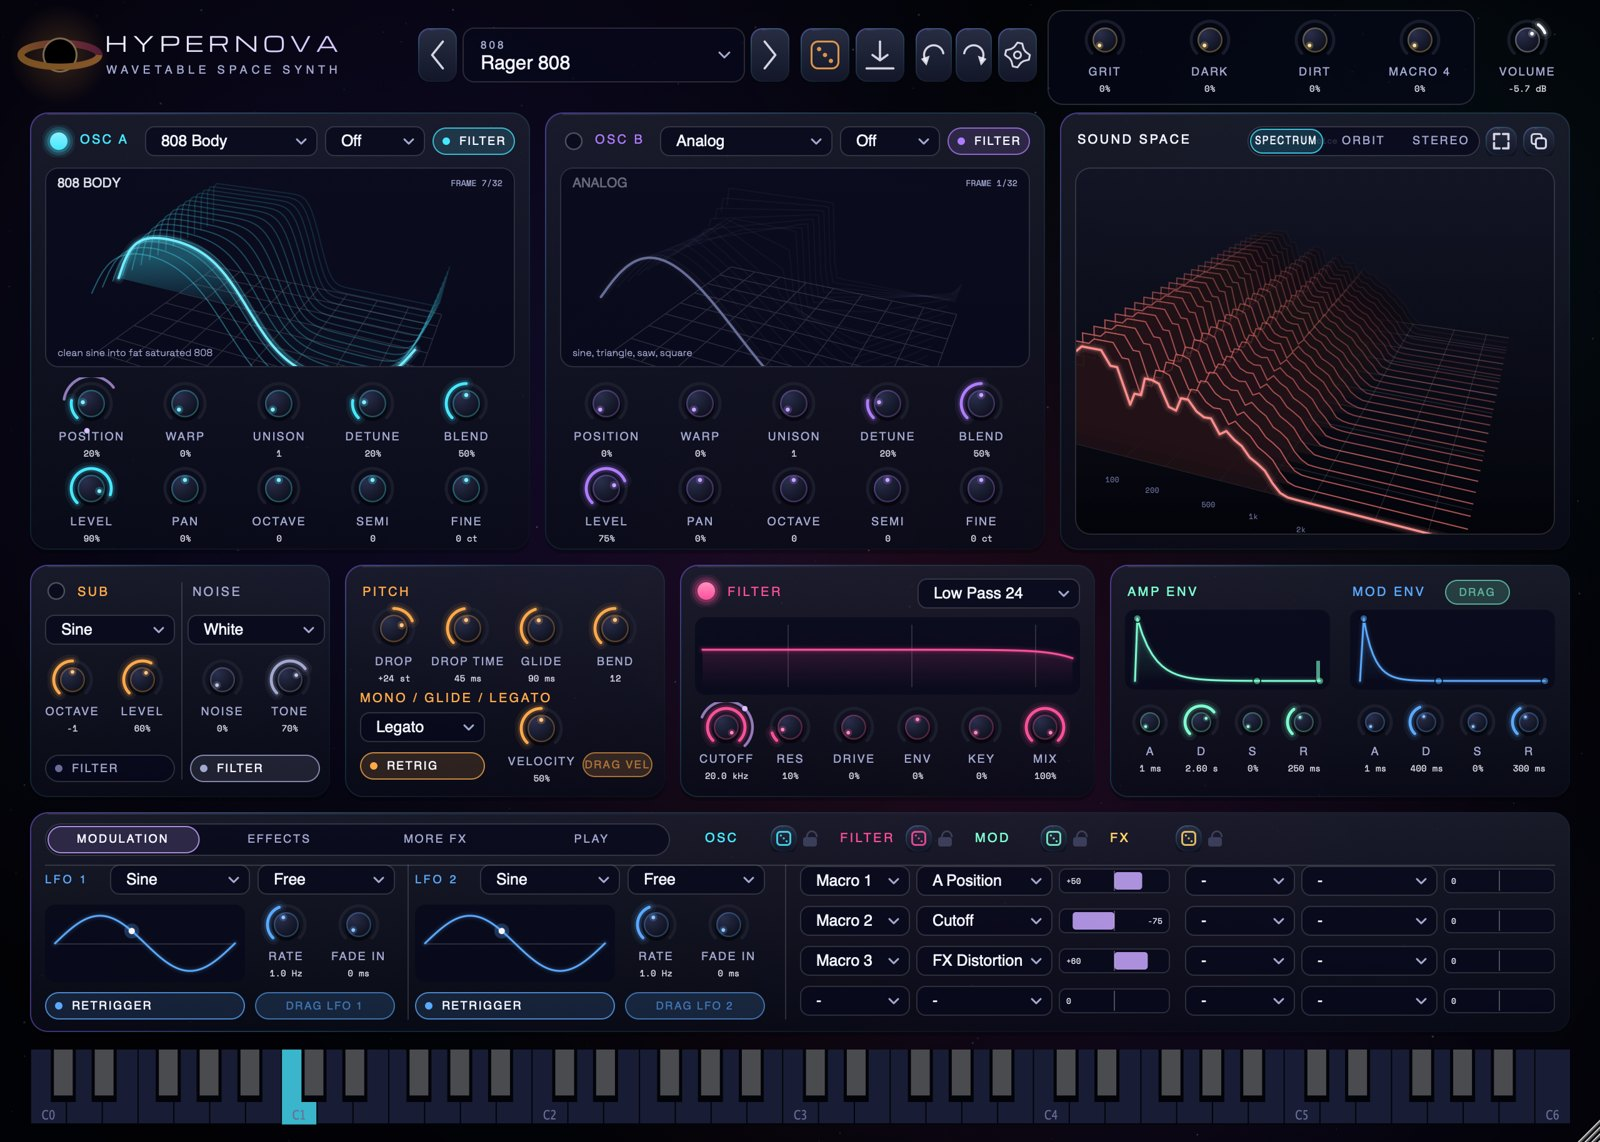
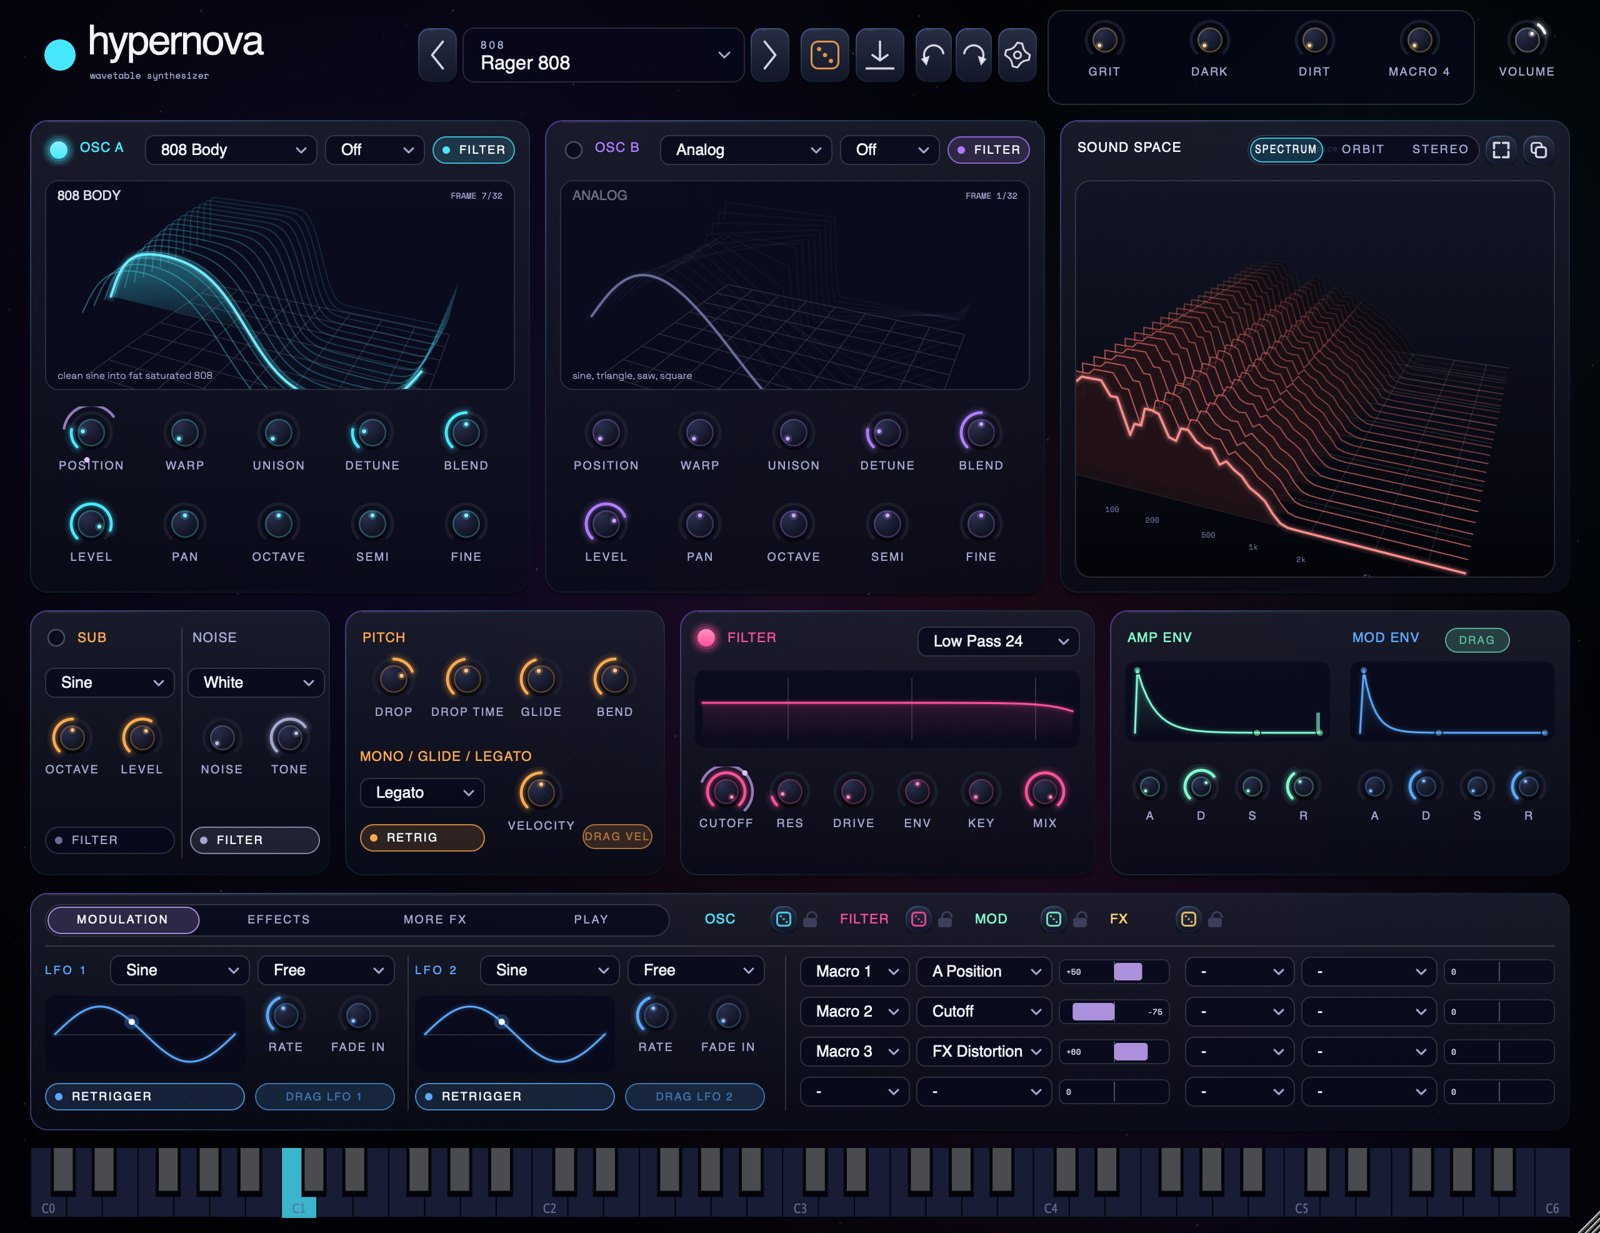
Paper house theme and wordmark; roomier layout
- New default theme, Paper: warm grey, white panels, black ink and one orange, matching the website.
  The logo is now an accent dot and a lowercase 'hypernova' wordmark in every theme; the backdrop no
  longer draws a black hole behind it (the logo flare still pulses the dot).
- Section labels use the monospace, like the site's spec sheet.
- Layout: taller rows (the canvas grows from 914 to 986 high), panel contents spread over the extra
  height, bigger wavetable and Sound Space views, and knob values appear on hover (Gear > Look >
  Always show knob values brings them back).
- Site screenshots updated to the new looks, Paper as the hero.

diff --git a/docs/index.html b/docs/index.html
@@ -10,7 +10,7 @@
   <meta property="og:type" content="website">
   <meta property="og:title" content="Hypernova">
   <meta property="og:description" content="a wavetable synthesizer for macOS. VST3, AU and standalone.">
-  <meta property="og:image" content="https://erinuckuzular-ai.github.io/Hypernova/assets/theme_daylight.jpg">
+  <meta property="og:image" content="https://erinuckuzular-ai.github.io/Hypernova/assets/theme_paper.jpg">
   <meta name="twitter:card" content="summary_large_image">
   <link rel="icon" href="favicon.svg" type="image/svg+xml">
   <link rel="preconnect" href="https://fonts.googleapis.com">
@@ -45,8 +45,8 @@
       </div>
 
       <figure class="hero-shot">
-        <img src="assets/theme_daylight.jpg" width="1600" height="1142" fetchpriority="high"
-             alt="The Hypernova editor in the Daylight theme: two wavetable oscillators in 3D, a spectrum view, filter, envelopes and the modulation deck.">
+        <img src="assets/theme_paper.jpg" width="1600" height="1233" fetchpriority="high"
+             alt="The Hypernova editor in the Paper theme: two wavetable oscillators in 3D, a spectrum view, filter, envelopes and the modulation deck.">
       </figure>
     </section>
 
@@ -104,7 +104,7 @@
             <li>362 FACTORY SOUNDS + 22 FOUNDERS PACK</li>
             <li>SHARE SOUNDS AS .HNPRESET FILES</li>
             <li>STEREO VIEW, POP-OUT VISUALISER</li>
-            <li>4 THEMES, CUSTOM ACCENT COLOUR</li>
+            <li>5 THEMES, CUSTOM ACCENT COLOUR</li>
             <li>UPDATES ITSELF, IF YOU LET IT</li>
             <li>SLEEPS WHEN SILENT: ~0 % CPU</li>
             <li>SIGNED AND NOTARIZED BY APPLE</li>
@@ -115,23 +115,23 @@
     </section>
 
     <section id="looks" class="section" aria-labelledby="looks-title">
-      <h2 id="looks-title">four looks.</h2>
-      <p class="lede">pick one in the gear menu. or pick your own accent colour and ignore all four.</p>
+      <h2 id="looks-title">five looks.</h2>
+      <p class="lede">paper is the default. the rest are in the gear menu, or pick your own accent colour and ignore all five.</p>
       <div class="shots">
         <figure class="shot">
-          <img src="assets/theme_cosmic.jpg" width="1600" height="1142" loading="lazy" alt="Hypernova in the Cosmic theme.">
+          <img src="assets/theme_cosmic.jpg" width="1600" height="1233" loading="lazy" alt="Hypernova in the Cosmic theme.">
           <figcaption>COSMIC</figcaption>
         </figure>
         <figure class="shot">
-          <img src="assets/theme_blackout.jpg" width="1600" height="1142" loading="lazy" alt="Hypernova in the Blackout theme.">
+          <img src="assets/theme_blackout.jpg" width="1600" height="1233" loading="lazy" alt="Hypernova in the Blackout theme.">
           <figcaption>BLACKOUT</figcaption>
         </figure>
         <figure class="shot">
-          <img src="assets/theme_daylight.jpg" width="1600" height="1142" loading="lazy" alt="Hypernova in the Daylight theme.">
+          <img src="assets/theme_daylight.jpg" width="1600" height="1233" loading="lazy" alt="Hypernova in the Daylight theme.">
           <figcaption>DAYLIGHT</figcaption>
         </figure>
         <figure class="shot">
-          <img src="assets/theme_vapor.jpg" width="1600" height="1142" loading="lazy" alt="Hypernova in the Vapor theme.">
+          <img src="assets/theme_vapor.jpg" width="1600" height="1233" loading="lazy" alt="Hypernova in the Vapor theme.">
           <figcaption>VAPOR</figcaption>
         </figure>
       </div>

diff --git a/Source/PluginEditor.cpp b/Source/PluginEditor.cpp
@@ -7,20 +7,29 @@ using namespace ab::ui;
 namespace
 {
     // Base-canvas layout
-    const juce::Rectangle<int> oscAPanel   { 24, 90, 400, 350 };
-    const juce::Rectangle<int> oscBPanel   { 436, 90, 400, 350 };
-    const juce::Rectangle<int> spacePanel  { 848, 90, 408, 350 };
-    const juce::Rectangle<int> subPanel    { 24, 452, 240, 186 };
-    const juce::Rectangle<int> voicePanel  { 276, 452, 256, 186 };
-    const juce::Rectangle<int> filterPanel { 544, 452, 332, 186 };
-    const juce::Rectangle<int> envPanel    { 888, 452, 368, 186 };
-    const juce::Rectangle<int> deckPanel   { 24, 650, 1232, 176 };
-    const juce::Rectangle<int> deckContent { 24, 688, 1232, 136 };
-    const juce::Rectangle<int> keysArea    { 24, 840, 1232, 60 };
+    // Rows breathe: every panel is taller than the content it was designed around, and at() spreads a
+    // panel's contents over the extra height instead of leaving it all at the bottom.
+    constexpr int topRowH = 378, midRowH = 212, topRowDesign = 350, midRowDesign = 186;
+    const juce::Rectangle<int> oscAPanel   { 24, 96, 400, topRowH };
+    const juce::Rectangle<int> oscBPanel   { 436, 96, 400, topRowH };
+    const juce::Rectangle<int> spacePanel  { 848, 96, 408, topRowH };
+    const juce::Rectangle<int> subPanel    { 24, 488, 240, midRowH };
+    const juce::Rectangle<int> voicePanel  { 276, 488, 256, midRowH };
+    const juce::Rectangle<int> filterPanel { 544, 488, 332, midRowH };
+    const juce::Rectangle<int> envPanel    { 888, 488, 368, midRowH };
+    const juce::Rectangle<int> deckPanel   { 24, 714, 1232, 190 };
+    const juce::Rectangle<int> deckContent { 24, 760, 1232, 140 };
+    const juce::Rectangle<int> keysArea    { 24, 918, 1232, 56 };
 
-    const juce::Rectangle<int> messageArea { 334, 68, 496, 16 };
+    const juce::Rectangle<int> messageArea { 334, 72, 496, 16 };
 
-    juce::Rectangle<int> at (const juce::Rectangle<int>& panel, int x, int y, int w, int h) { return { panel.getX() + x, panel.getY() + y, w, h }; }
+    juce::Rectangle<int> at (const juce::Rectangle<int>& panel, int x, int y, int w, int h)
+    {
+        const float design = panel.getHeight() == topRowH ? (float) topRowDesign : panel.getHeight() == midRowH ? (float) midRowDesign
+                                                                                                           : (float) panel.getHeight();
+        const float k = (float) panel.getHeight() / design;
+        return { panel.getX() + x, panel.getY() + juce::roundToInt ((float) y * k), w, h };
+    }
 }
 
 //==============================================================================
@@ -314,7 +323,7 @@ void HypernovaAudioProcessorEditor::layoutCanvas()
         combo (p + "Table", WavetableBank::names(), at (P, 92, 11, 138, 24));
         combo (p + "Warp", warpNames(), at (P, 236, 11, 80, 24));
         toggle (std::make_unique<PillToggle> ("FILTER", c), p + "Filter", at (P, 322, 12, 66, 22), "Send this oscillator through the filter");
-        (o == 0 ? viewA : viewB).setBounds (at (P, 12, 44, 376, 160));
+        (o == 0 ? viewA : viewB).setBounds (at (P, 12, 44, 376, 168));
 
         const char* ids1[] = { "Pos", "WarpAmt", "Uni", "Detune", "Blend" };
         const char* names1[] = { "POSITION", "WARP", "UNISON", "DETUNE", "BLEND" };
@@ -329,7 +338,7 @@ void HypernovaAudioProcessorEditor::layoutCanvas()
 
     // Sound space
     spaceMode.setBounds (at (spacePanel, 150, 11, 186, 24));
-    space.setBounds (at (spacePanel, 12, 44, 384, 294));
+    space.setBounds (at (spacePanel, 12, 44, 384, 318));
     expandButton.setTooltip ("Fill the window with the Sound Space");
     popOutButton.setTooltip ("Open the Sound Space in its own resizable window");
     expandButton.onClick = [this] { setSpaceExpanded (! spaceExpanded); };
@@ -415,7 +424,7 @@ void HypernovaAudioProcessorEditor::paintCanvas (juce::Graphics& g)
     if (! cosmosOnGpu())
     {
         if (! fallbackBackdrop.isValid())
-            fallbackBackdrop = renderCosmosFallback (baseWidth, baseHeight, 2.0f, logoHole, logoHoleRadius);
+            fallbackBackdrop = renderCosmosFallback (baseWidth, baseHeight, 2.0f, logoHole, 0.0f);
         g.drawImage (fallbackBackdrop, juce::Rectangle<float> (0, 0, (float) baseWidth, (float) baseHeight));
     }
 
@@ -432,14 +441,16 @@ void HypernovaAudioProcessorEditor::paintCanvas (juce::Graphics& g)
 
 void HypernovaAudioProcessorEditor::paintStatic (juce::Graphics& g)
 {
-    // Wordmark next to the black hole (the hole itself is drawn by the backdrop).
+    // Wordmark: an accent dot and "hypernova" in lowercase, the same as the website.
     {
-        g.setGradientFill (juce::ColourGradient (Colours::text, 84, 20, juce::Colour (0xffc7b4ff), 330, 48, false));
-        g.setFont (heavy (24.0f).withExtraKerningFactor (0.16f));
-        g.drawText ("HYPERNOVA", juce::Rectangle<float> (84, 19, 250, 30), juce::Justification::centredLeft, false);
+        g.setColour (Colours::accent);
+        g.fillEllipse (juce::Rectangle<float> (logoHoleRadius * 2.0f, logoHoleRadius * 2.0f).withCentre (logoHole));
+        g.setColour (Colours::text);
+        g.setFont (heavy (34.0f).withExtraKerningFactor (-0.04f));
+        g.drawText ("hypernova", juce::Rectangle<float> (70, 14, 260, 40), juce::Justification::centredLeft, false);
         g.setColour (Colours::textDim);
-        g.setFont (font (9.5f, true).withExtraKerningFactor (0.34f));
-        g.drawText ("WAVETABLE SPACE SYNTH", juce::Rectangle<float> (85, 48, 250, 16), juce::Justification::centredLeft, false);
+        g.setFont (mono (11.0f));
+        g.drawText ("wavetable synthesizer", juce::Rectangle<float> (72, 52, 250, 16), juce::Justification::centredLeft, false);
     }
 
     auto titled = [&] (const juce::Rectangle<int>& r, const juce::String& title, juce::Colour c, int titleX = 14)
@@ -456,7 +467,7 @@ void HypernovaAudioProcessorEditor::paintStatic (juce::Graphics& g)
     g.setColour (Colours::line);
     g.drawVerticalLine (subPanel.getX() + 121, (float) subPanel.getY() + 14, (float) subPanel.getBottom() - 14);
     titled (voicePanel, "PITCH", Palette::sub);
-    sectionLabel (g, "MONO / GLIDE / LEGATO", juce::Rectangle<float> ((float) voicePanel.getX() + 12, (float) voicePanel.getY() + 98, 240, 18), Palette::sub);
+    sectionLabel (g, "MONO / GLIDE / LEGATO", juce::Rectangle<float> ((float) voicePanel.getX() + 12, (float) voicePanel.getY() + 108, 240, 18), Palette::sub);
     titled (filterPanel, "FILTER", Palette::filter, 38);
     titled (envPanel, "AMP ENV", Palette::env);
     sectionLabel (g, "MOD ENV", juce::Rectangle<float> ((float) envPanel.getX() + 194, (float) envPanel.getY() + 10, 120, 24), Palette::lfo);
@@ -538,7 +549,7 @@ void HypernovaAudioProcessorEditor::timerCallback()
         cosmos.flare = logoFlare;
         cosmos.holeX = logoHole.x * k;
         cosmos.holeY = logoHole.y * k;
-        cosmos.holeR = logoHoleRadius * k;
+        cosmos.holeR = 0.0f; // the logo is the dot now; no black hole behind it
         const bool gpu = cosmosOnGpu();
         if (gpu != lastGpu) { lastGpu = gpu; canvas.repaint(); }
         // Backdrop frame rate: 30 fps while notes sound, 12 fps when idle, or per the Animation setting.
@@ -1187,6 +1198,7 @@ void HypernovaAudioProcessorEditor::addLookMenu (juce::PopupMenu& m)
     m.addSubMenu ("Knobs", knobsMenu);
     m.addSubMenu ("Panels", panels);
     m.addItem (580, "Show keyboard", true, ab::ui::LookSettings::flag ("keyboard", true));
+    m.addItem (581, "Always show knob values", true, t.alwaysShowValues);
 }
 
 bool HypernovaAudioProcessorEditor::handleLookMenu (int r)
@@ -1212,6 +1224,7 @@ bool HypernovaAudioProcessorEditor::handleLookMenu (int r)
     else if (r == 570) t.panelStyle = -1;
     else if (r >= 571 && r <= 573) t.panelStyle = r - 571;
     else if (r == 580) ab::ui::LookSettings::setFlag ("keyboard", ! ab::ui::LookSettings::flag ("keyboard", true));
+    else if (r == 581) t.alwaysShowValues = ! t.alwaysShowValues;
     else return false;
     ++t.version;
     ab::ui::LookSettings::save();
@@ -1259,7 +1272,7 @@ void HypernovaAudioProcessorEditor::setSpaceExpanded (bool expand)
         showMessage ("Sound Space expanded: click the arrows again to shrink it");
     }
     else
-        space.setBounds (spacePanel.getX() + 12, spacePanel.getY() + 44, 384, 294);
+        space.setBounds (at (spacePanel, 12, 44, 384, 318));
     canvas.repaint();
 }
 

diff --git a/Source/UI/Style.h b/Source/UI/Style.h
@@ -47,6 +47,11 @@ inline std::vector<Theme> builtInThemes()
         return t;
     };
     return {
+        // Paper: the house look. Warm grey, white panels, black ink and one orange, like the website.
+        make ("Paper", { 0xfff2f1ee, 0xffe9e8e4, 0xffffffff, 0xffffffff, 0xffeeede9, 0x1f000000, 0x40000000,
+                         0xff111111, 0xff4a4a4a, 0xff8b8b88, 0xffff5a1f, 0xff2f5bff, 0xffff5a1f, 0xffe8363d,
+                         0xffff5a1f, 0xff2f5bff, 0xffe0a100, 0xffe8363d, 0xff16a37b, 0xff2f5bff, 0xff7a5cff, 0xff111111 },
+              BackdropFlat, 0.0f, KnobRing, PanelFlat, true),
         // Cosmic: deep space, but with panels that read as surfaces and a backdrop that sits back.
         make ("Cosmic", { 0xff03040a, 0xff070914, 0xc40d1022, 0xff181d35, 0xc206081a, 0x24ffffff, 0x45ffffff,
                           0xfff4f5ff, 0xffa3a8d0, 0xff676d96, 0xff46e8ff, 0xff8a5cff, 0xffffa94a, 0xffff4f9a,
@@ -77,6 +82,7 @@ struct ThemeState
     juce::Colour accentOverride; // transparent = use the theme's own
     int backdrop = -1, knobStyle = -1, panelStyle = -1;
     float backdropStrength = -1.0f;
+    bool alwaysShowValues = false; // otherwise knob values appear on hover, which keeps panels calm
     int version = 0; // bumped on every change so views can drop cached images
 
     static ThemeState& get()
@@ -124,6 +130,7 @@ struct LookSettings
         t.backdropStrength = (float) p.getDoubleValue ("strength", -1.0);
         t.knobStyle = p.getIntValue ("knobs", -1);
         t.panelStyle = p.getIntValue ("panels", -1);
+        t.alwaysShowValues = p.getBoolValue ("values", false);
         ++t.version;
     }
 
@@ -137,6 +144,7 @@ struct LookSettings
         p.setValue ("strength", (double) t.backdropStrength);
         p.setValue ("knobs", t.knobStyle);
         p.setValue ("panels", t.panelStyle);
+        p.setValue ("values", t.alwaysShowValues);
         p.saveIfNeeded();
     }
 
@@ -217,7 +225,7 @@ private:
                 code = load ("SpaceMonoRegular_ttf");
                 break;
             default:
-                display = load ("MichromaRegular_ttf");
+                display = load ("SpaceGroteskvar_ttf");
                 body = load ("SpaceGroteskvar_ttf");
                 bodyBold = load ("SpaceGroteskvar_ttf");
                 code = load ("SpaceMonoRegular_ttf");
@@ -242,7 +250,7 @@ inline juce::Font heavy (float height)
     const auto& f = Fonts::get();
     if (f.display == nullptr)
         return juce::Font (juce::FontOptions().withName ("Avenir Next").withHeight (height).withStyle ("Heavy"));
-    return juce::Font (juce::FontOptions (f.display).withHeight (height));
+    return juce::Font (juce::FontOptions (f.display).withHeight (height)).boldened();
 }
 
 // Wide display face, for the logo and section headings.
@@ -316,7 +324,7 @@ inline void panel (juce::Graphics& g, juce::Rectangle<float> r, float radius = 1
 inline void sectionLabel (juce::Graphics& g, const juce::String& text, juce::Rectangle<float> area, juce::Colour c = Colours::textDim)
 {
     g.setColour (c);
-    g.setFont (font (10.5f, true).withExtraKerningFactor (0.16f));
+    g.setFont (mono (11.0f).boldened().withExtraKerningFactor (0.06f));
     g.drawFittedText (text, area.toNearestInt(), juce::Justification::centredLeft, 1, 0.75f);
 }
 

diff --git a/Source/UI/Cosmos.h b/Source/UI/Cosmos.h
@@ -248,6 +248,7 @@ inline juce::Image renderCosmosFallback (int w, int h, float scale, juce::Point<
     const float strength = ThemeState::get().strength();
     auto blackHole = [&]
     {
+        if (holeR <= 0.0f) return;
         g.setGradientFill (juce::ColourGradient (juce::Colour (0x66ffa14a), hole.x, hole.y, juce::Colour (0x00ffa14a), hole.x + holeR * 3.2f, hole.y, true));
         g.fillEllipse (juce::Rectangle<float> (holeR * 6.4f, holeR * 6.4f).withCentre (hole));
         juce::Path d;
@@ -305,6 +306,9 @@ inline juce::Image renderCosmosFallback (int w, int h, float scale, juce::Point<
     g.fillRect (r);
     // Black hole: glow, disk, horizon, photon ring.
     blackHole();
+    if (holeR <= 0.0f) { g.setGradientFill (juce::ColourGradient (juce::Colours::transparentBlack, r.getCentreX(), r.getCentreY(),
+                                                                  juce::Colours::black.withAlpha (0.55f), 0, 0, true));
+                         g.fillRect (r); return img; }
     juce::Path front;
     front.addCentredArc (hole.x, hole.y, holeR * 2.5f, holeR * 0.75f, 0.0f, juce::MathConstants<float>::halfPi, juce::MathConstants<float>::halfPi * 3.0f, true);
     g.setColour (Colours::warm);

diff --git a/Source/UI/Components.h b/Source/UI/Components.h
@@ -718,7 +718,7 @@ public:
         g.setFont (font (9.5f, true).withExtraKerningFactor (0.12f));
         g.drawFittedText (active && param != nullptr ? param->getCurrentValueAsText() : name, r.removeFromTop (13).toNearestInt(),
                           juce::Justification::centred, 1, 0.7f);
-        if (showValue && ! active)
+        if (showValue && ! active && ThemeState::get().alwaysShowValues)
         {
             g.setColour (Colours::text.withAlpha (0.85f));
             g.setFont (mono (10.5f));

diff --git a/Source/PluginEditor.h b/Source/PluginEditor.h
@@ -29,7 +29,7 @@ public:
     void setSpaceExpanded (bool e);
     void applyTheme();
 
-    static constexpr int baseWidth = 1280, baseHeight = 914;
+    static constexpr int baseWidth = 1280, baseHeight = 986;
 
 private:
     void timerCallback() override;
